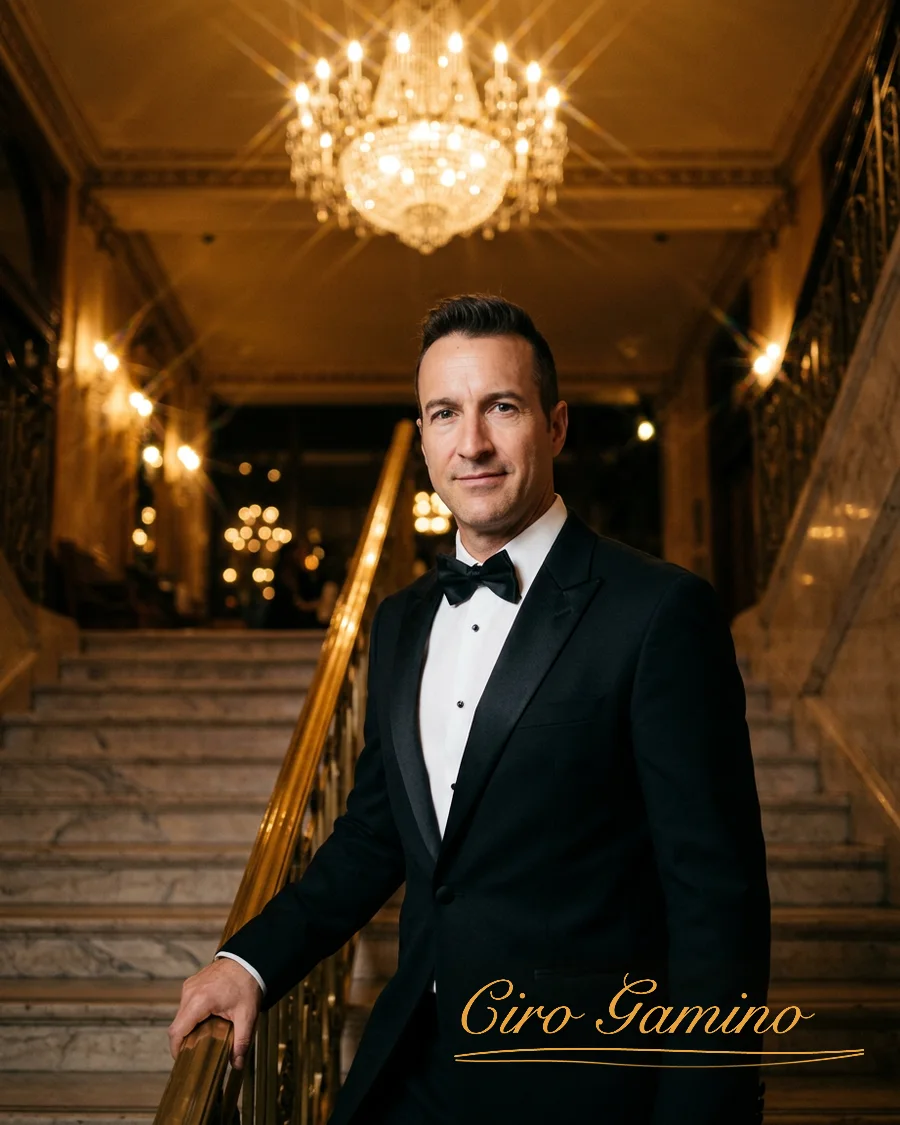
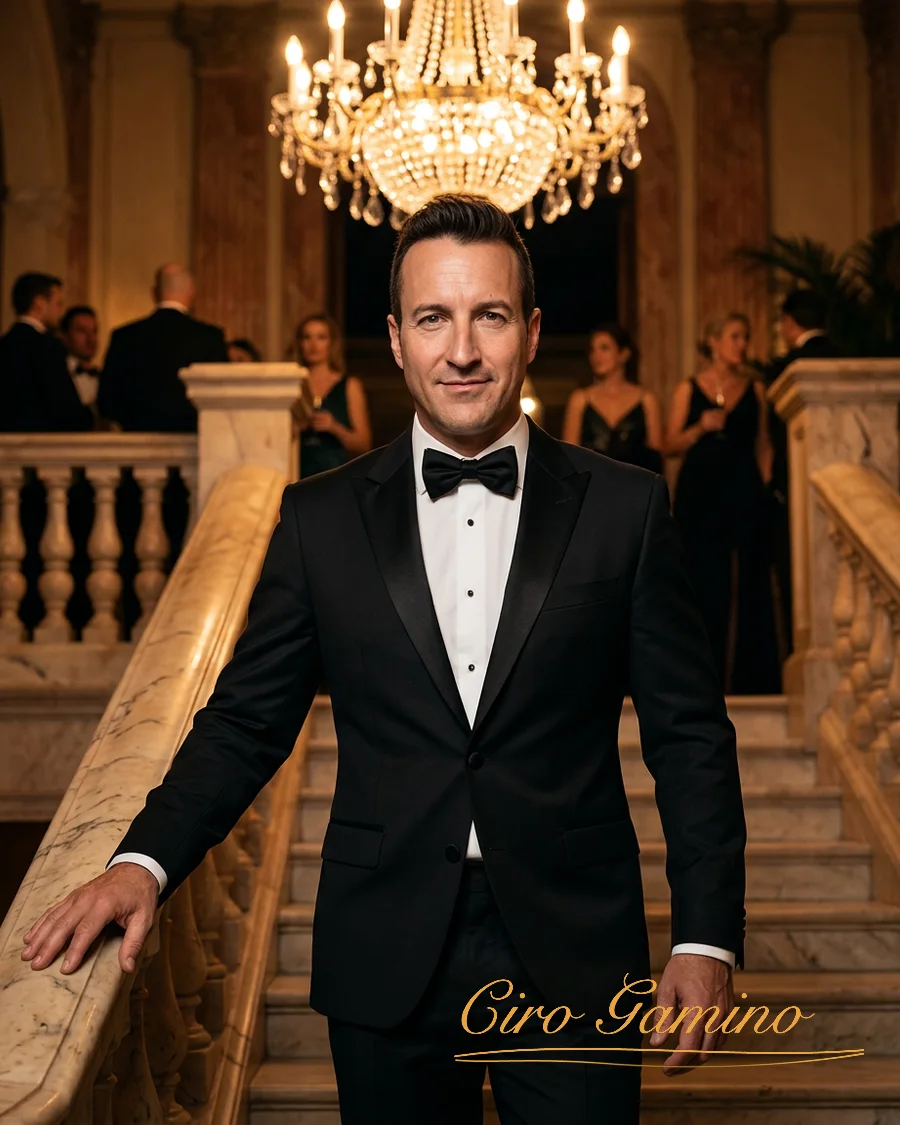
v3.6: zoom-gate redo round — 7 cards replaced with dual-anchor identity takes (toast/espresso/party/walk/villa-greysuit/penthouse/tux); keeps Ciro's 8 approved + profile/cliff untouched; cache-bust v2

diff --git a/index.html b/index.html
@@ -289,19 +289,19 @@ footer{position:relative;z-index:5;border-top:1px solid var(--line);padding:40px
   <div class="human-grid" style="grid-template-columns:repeat(3,1fr);max-width:1150px">
     <div class="pcard rv" data-tilt><img src="img/ciro-med-card1.webp?v=4" alt="Ciro Gamino at a Mediterranean sunset party, laughing, jacket over shoulders" width="900" height="1125" loading="lazy" decoding="async"><div class="cap"><b>The Mediterranean cut</b><span>SUNSET · GOLDEN HOUR · THE OPERATOR OFF DUTY</span></div></div>
     <div class="pcard rv" data-tilt><img src="img/ciro-v2-n1.webp?v=1" alt="Ciro Gamino in a white suit, studio smoke, hand at chin" width="900" height="1125" loading="lazy" decoding="async"><div class="cap"><b>The white suit</b><span>STUDIO · MAGAZINE COVER</span></div></div>
-    <div class="pcard rv" data-tilt><img src="img/ciro-v2-n2.webp?v=1" alt="Ciro Gamino in a black tux on a grand staircase under a chandelier" width="900" height="1125" loading="lazy" decoding="async"><div class="cap"><b>The tux</b><span>GRAND STAIRCASE · BOND ENERGY</span></div></div>
+    <div class="pcard rv" data-tilt><img src="img/ciro-v2-n2.webp?v=2" alt="Ciro Gamino in a black tux on a grand staircase under a chandelier" width="900" height="1125" loading="lazy" decoding="async"><div class="cap"><b>The tux</b><span>GRAND STAIRCASE · BOND ENERGY</span></div></div>
     <div class="pcard rv" data-tilt><img src="img/ciro-v2-n3.webp?v=1" alt="Ciro Gamino in a wool coat on a rain-slicked neon street at night" width="900" height="1125" loading="lazy" decoding="async"><div class="cap"><b>The noir</b><span>CITY RAIN · NEON</span></div></div>
-    <div class="pcard rv" data-tilt><img src="img/ciro-v2-n4.webp?v=1" alt="Ciro Gamino on a penthouse rooftop at blue hour above the city" width="900" height="1125" loading="lazy" decoding="async"><div class="cap"><b>The penthouse</b><span>BLUE HOUR · SKYLINE</span></div></div>
-    <div class="pcard rv" data-tilt><img src="img/ciro-v2-n5.webp?v=1" alt="Ciro Gamino in a linen suit on a Mediterranean cliff above an infinity pool" width="900" height="1125" loading="lazy" decoding="async"><div class="cap"><b>The Mediterranean</b><span>CLIFF VILLA · INFINITY POOL</span></div></div>
+    <div class="pcard rv" data-tilt><img src="img/ciro-v2-n4.webp?v=2" alt="Ciro Gamino on a penthouse rooftop at blue hour above the city" width="900" height="1125" loading="lazy" decoding="async"><div class="cap"><b>The penthouse</b><span>BLUE HOUR · SKYLINE</span></div></div>
+    <div class="pcard rv" data-tilt><img src="img/ciro-v2-n5.webp?v=2" alt="Ciro Gamino in a linen suit on a Mediterranean cliff above an infinity pool" width="900" height="1125" loading="lazy" decoding="async"><div class="cap"><b>The Mediterranean</b><span>CLIFF VILLA · INFINITY POOL</span></div></div>
     <div class="pcard rv" data-tilt><img src="img/ciro-v2-n6.webp?v=1" alt="Ciro Gamino in a leather jacket beside a classic car in the desert at dusk" width="900" height="1125" loading="lazy" decoding="async"><div class="cap"><b>The western</b><span>DESERT · CLASSIC CAR · DUSK</span></div></div>
     <div class="pcard rv" data-tilt><img src="img/ciro-v2-n7.webp?v=1" alt="Ciro Gamino in a white suit on a helipad with a helicopter behind him at night" width="900" height="1125" loading="lazy" decoding="async"><div class="cap"><b>The arrival</b><span>HELIPAD · ACTION POSTER</span></div></div>
     <div class="pcard rv" data-tilt><img src="img/ciro-v2-n8.webp?v=1" alt="Ciro Gamino in a midnight-blue suit at a dark marble bar" width="900" height="1125" loading="lazy" decoding="async"><div class="cap"><b>After hours</b><span>QUIET LUXURY · MIDNIGHT SUIT</span></div></div>
     <div class="pcard rv" data-tilt><img src="img/ciro-v1-t1.webp?v=1" alt="Ciro Gamino in a blazer on a Mediterranean cliffside at sunset" width="900" height="1125" loading="lazy" decoding="async"><div class="cap"><b>The cliff</b><span>MEDITERRANEAN · SUN FLARE</span></div></div>
-    <div class="pcard rv" data-tilt><img src="img/ciro-v1-t2.webp?v=1" alt="Ciro Gamino laughing at a rooftop party at sunset" width="900" height="1125" loading="lazy" decoding="async"><div class="cap"><b>The party</b><span>ROOFTOP · GOLDEN HOUR</span></div></div>
+    <div class="pcard rv" data-tilt><img src="img/ciro-v1-t2.webp?v=2" alt="Ciro Gamino laughing at a rooftop party at sunset" width="900" height="1125" loading="lazy" decoding="async"><div class="cap"><b>The party</b><span>ROOFTOP · GOLDEN HOUR</span></div></div>
     <div class="pcard rv" data-tilt><img src="img/ciro-v1-t3.webp?v=1" alt="Ciro Gamino in profile leaning on a stone railing at dusk by the sea" width="900" height="1125" loading="lazy" decoding="async"><div class="cap"><b>The profile</b><span>DUSK · LAST LIGHT · THE SEA</span></div></div>
-    <div class="pcard rv" data-tilt><img src="img/ciro-v1-t4.webp?v=1" alt="Ciro Gamino with an espresso at a terrace table with bougainvillea" width="900" height="1125" loading="lazy" decoding="async"><div class="cap"><b>The espresso</b><span>TERRACE · BOUGAINVILLEA</span></div></div>
-    <div class="pcard rv" data-tilt><img src="img/ciro-v1-t5.webp?v=1" alt="Ciro Gamino walking a coastal path at golden hour glancing back" width="900" height="1125" loading="lazy" decoding="async"><div class="cap"><b>The walk</b><span>COASTAL PATH · HALF SMILE</span></div></div>
-    <div class="pcard rv" data-tilt><img src="img/ciro-v1-t6.webp?v=1" alt="Ciro Gamino raising a toast at a sunset dinner terrace" width="900" height="1125" loading="lazy" decoding="async"><div class="cap"><b>The toast</b><span>SUNSET DINNER · STRING LIGHTS</span></div></div>
+    <div class="pcard rv" data-tilt><img src="img/ciro-v1-t4.webp?v=2" alt="Ciro Gamino with an espresso at a terrace table with bougainvillea" width="900" height="1125" loading="lazy" decoding="async"><div class="cap"><b>The espresso</b><span>TERRACE · BOUGAINVILLEA</span></div></div>
+    <div class="pcard rv" data-tilt><img src="img/ciro-v1-t5.webp?v=2" alt="Ciro Gamino walking a coastal path at golden hour glancing back" width="900" height="1125" loading="lazy" decoding="async"><div class="cap"><b>The walk</b><span>COASTAL PATH · HALF SMILE</span></div></div>
+    <div class="pcard rv" data-tilt><img src="img/ciro-v1-t6.webp?v=2" alt="Ciro Gamino raising a toast at a sunset dinner terrace" width="900" height="1125" loading="lazy" decoding="async"><div class="cap"><b>The toast</b><span>SUNSET DINNER · STRING LIGHTS</span></div></div>
   </div>
   <p class="human-side rv">By day the fleet runs volleyball nights, real-estate pipelines, a mockumentary office and a
   social empire. By night it runs itself — <b>that's the point</b>. I built a company where twenty of the
